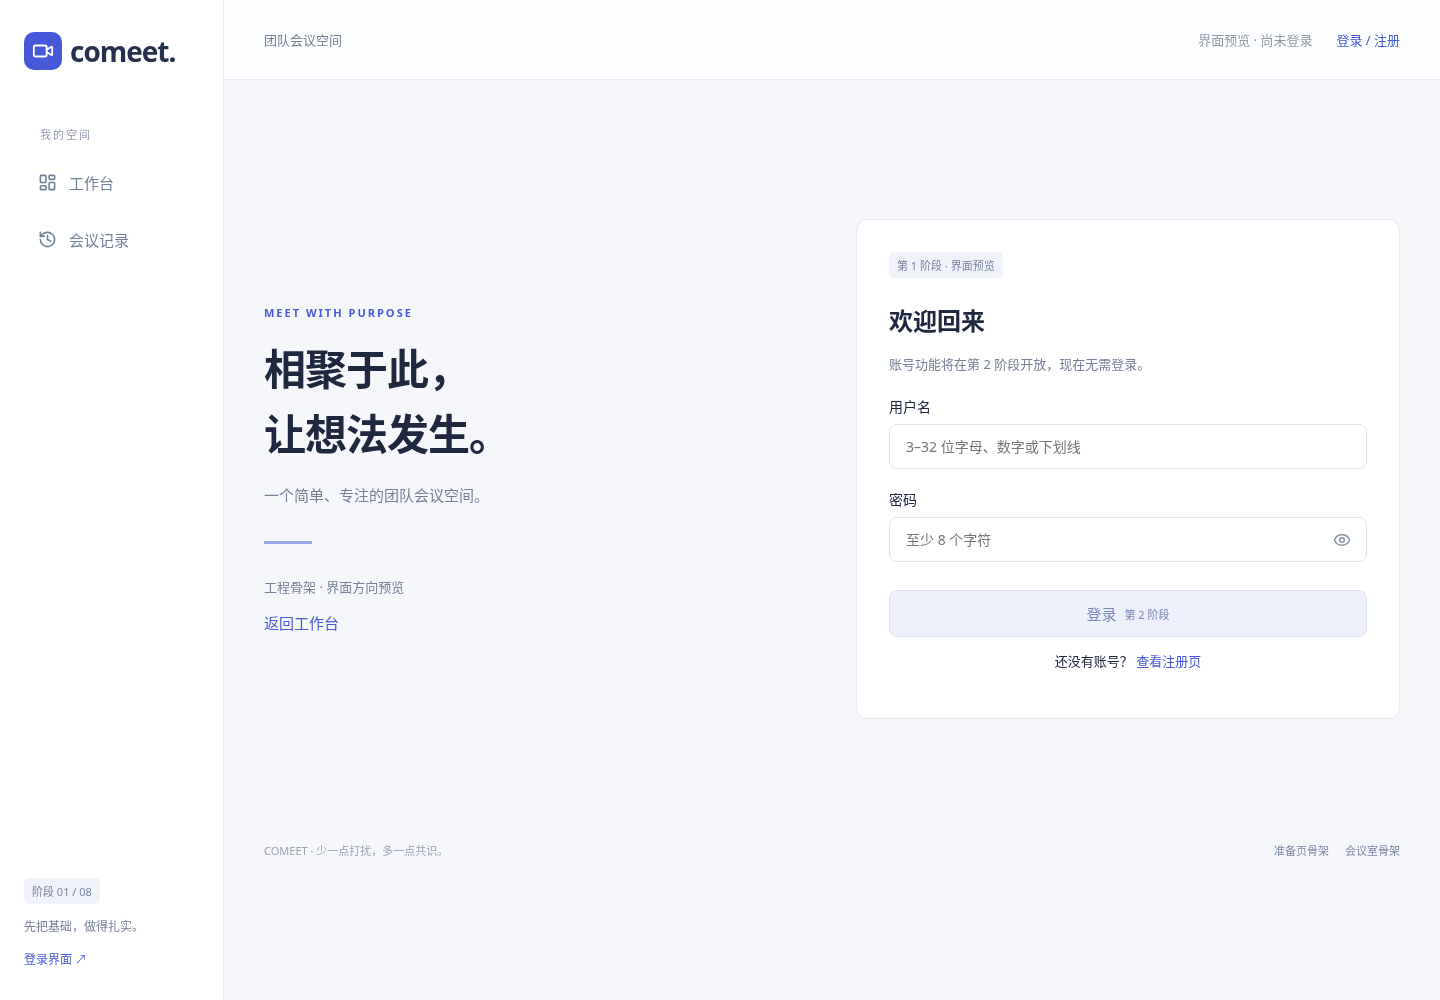
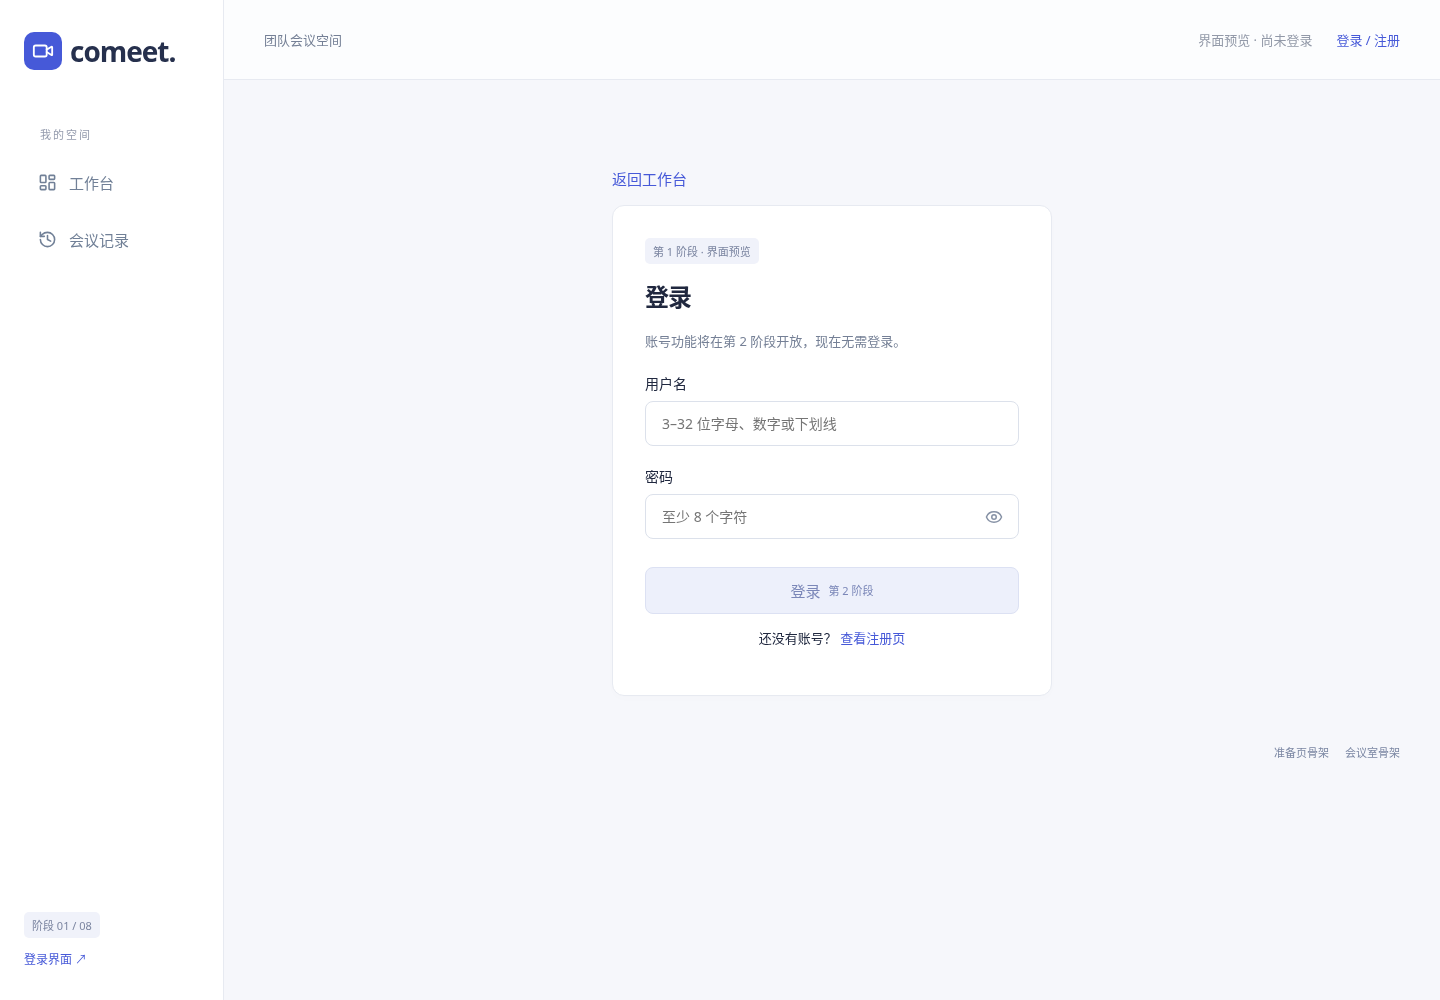
fix: 精简全站文案并记录最终交付清理要求

diff --git a/week03/homework/comeet/web/src/app/style.css b/week03/homework/comeet/web/src/app/style.css
@@ -132,6 +132,10 @@ nav a.active {
   font-weight: 600;
 }
 .sidebar-bottom {
+  display: flex;
+  flex-direction: column;
+  align-items: flex-start;
+  gap: 12px;
   margin-top: auto;
   padding-top: 64px;
   font-size: 12px;
@@ -164,12 +168,6 @@ main {
   margin: auto;
   padding: 48px 40px 24px;
 }
-.eyebrow {
-  font-size: 11px;
-  color: var(--primary);
-  font-weight: 700;
-  letter-spacing: 2px;
-}
 .subtitle {
   color: var(--muted);
   margin-bottom: 32px;
@@ -188,13 +186,12 @@ main {
   box-shadow: 0 3px 8px #26345503;
 }
 .action-card {
-  padding: 32px;
+  padding: 24px;
+  display: flex;
+  flex-direction: column;
 }
 .action-card h2 {
   margin-top: 24px;
-}
-.action-card p {
-  color: var(--muted);
 }
 .action-icon {
   display: flex;
@@ -227,7 +224,7 @@ main {
   width: 100%;
 }
 .action-card:first-child .button {
-  margin-top: 64px;
+  margin-top: auto;
 }
 .section-title {
   display: flex;
@@ -310,7 +307,7 @@ main {
 }
 .page-footer {
   display: flex;
-  justify-content: space-between;
+  justify-content: flex-end;
   gap: 16px;
   color: #9aa1b1;
   font-size: 11px;
@@ -325,32 +322,19 @@ main {
   color: #7b87a3;
 }
 .auth-layout {
-  display: grid;
-  grid-template-columns: 1fr 1fr;
-  gap: 48px;
-  align-items: center;
-  min-height: 65vh;
-}
-.auth-intro h1 {
-  font-size: 42px;
-  line-height: 1.55;
-}
-.auth-intro p {
-  color: var(--muted);
-}
-hr {
-  width: 48px;
-  height: 3px;
-  border: 0;
-  background: #9ca8e8;
-  margin: 32px 0;
+  display: flex;
+  flex-direction: column;
+  gap: 16px;
+  width: 100%;
+  max-width: 440px;
+  margin: 24px auto;
 }
 .auth-card {
   padding: 32px;
 }
-.auth-card h2 {
+.auth-card h1 {
   font-size: 24px;
-  margin-top: 24px;
+  margin: 16px 0;
 }
 .auth-card .button {
   width: 100%;
@@ -513,7 +497,7 @@ hr {
     padding-top: 64px;
   }
   .actions {
-    margin-top: 40px;
+    margin-top: 24px;
   }
 }
 @media (max-width: 1024px) {
@@ -526,12 +510,6 @@ hr {
   }
   .topbar {
     padding: 0 24px;
-  }
-  .auth-layout {
-    gap: 24px;
-  }
-  .auth-intro h1 {
-    font-size: 32px;
   }
   .room-body {
     grid-template-columns: 1fr 260px;
@@ -588,12 +566,6 @@ hr {
   .health-grid strong {
     display: inline;
     margin-left: 16px;
-  }
-  .auth-layout {
-    grid-template-columns: 1fr;
-  }
-  .auth-intro {
-    display: none;
   }
   .auth-card {
     max-width: 480px;

diff --git a/week03/homework/comeet/web/src/pages/Auth.tsx b/week03/homework/comeet/web/src/pages/Auth.tsx
@@ -6,21 +6,10 @@ export default function Auth({ register = false }: { register?: boolean }) {
   const [show, setShow] = useState(false);
   return (
     <div className="auth-layout">
-      <section className="auth-intro">
-        <div className="eyebrow">MEET WITH PURPOSE</div>
-        <h1>
-          相聚于此，
-          <br />
-          让想法发生。
-        </h1>
-        <p>一个简单、专注的团队会议空间。</p>
-        <hr />
-        <p className="muted">工程骨架 · 界面方向预览</p>
-        <Link to="/">返回工作台</Link>
-      </section>
+      <Link to="/">返回工作台</Link>
       <section className="card auth-card">
         <span className="tag">第 1 阶段 · 界面预览</span>
-        <h2>{register ? "创建 Comeet 账号" : "欢迎回来"}</h2>
+        <h1>{register ? "注册" : "登录"}</h1>
         <p className="muted">账号功能将在第 2 阶段开放，现在无需登录。</p>
         <form onSubmit={(e) => e.preventDefault()}>
           <label>

diff --git a/week03/homework/comeet/web/src/app/App.tsx b/week03/homework/comeet/web/src/app/App.tsx
@@ -34,7 +34,6 @@ export default function App() {
         </nav>
         <div className="sidebar-bottom">
           <span className="tag">阶段 01 / 08</span>
-          <p>先把基础，做得扎实。</p>
           <Link to="/login">登录界面 ↗</Link>
         </div>
       </aside>
@@ -65,7 +64,6 @@ export default function App() {
             />
           </Routes>
           <footer className="page-footer">
-            COMEET · 少一点打扰，多一点共识。
             <div className="preview-links">
               <Link to="/meetings/preview/prepare">准备页骨架</Link>
               <Link to="/meetings/preview/room">会议室骨架</Link>

diff --git a/week03/homework/comeet/web/index.html b/week03/homework/comeet/web/index.html
@@ -1,1 +1,1 @@
-<!doctype html><html lang="zh-CN"><head><meta charset="UTF-8"/><meta name="viewport" content="width=device-width, initial-scale=1.0"/><meta name="theme-color" content="#4255d4"/><title>Comeet · 让沟通更专注</title></head><body><div id="root"></div><script type="module" src="/src/main.tsx"></script></body></html>
+<!doctype html><html lang="zh-CN"><head><meta charset="UTF-8"/><meta name="viewport" content="width=device-width, initial-scale=1.0"/><meta name="theme-color" content="#4255d4"/><title>Comeet</title></head><body><div id="root"></div><script type="module" src="/src/main.tsx"></script></body></html>

diff --git a/week03/homework/comeet/web/src/pages/Dashboard.tsx b/week03/homework/comeet/web/src/pages/Dashboard.tsx
@@ -11,7 +11,6 @@ export default function Dashboard() {
             <Plus />
           </div>
           <h2>发起即时会议</h2>
-          <p>邀请伙伴，一起讨论下一步。</p>
           <Disabled>创建会议</Disabled>
         </section>
         <section className="card action-card">
@@ -19,7 +18,6 @@ export default function Dashboard() {
             <LogIn />
           </div>
           <h2>通过会议号加入</h2>
-          <p>与团队快速会合。</p>
           <label className="sr-only" htmlFor="meeting-no">
             会议号
           </label>

diff --git a/week03/homework/comeet/web/src/pages/HistoryPage.tsx b/week03/homework/comeet/web/src/pages/HistoryPage.tsx
@@ -2,9 +2,7 @@ import { Empty } from "../components/Common";
 export default function HistoryPage({ detail = false }: { detail?: boolean }) {
   return (
     <>
-      <div className="eyebrow">MEETING ARCHIVE</div>
       <h1>{detail ? "会议记录详情" : "历史会议"}</h1>
-      <p className="subtitle">让每一次讨论，都有迹可循。</p>
       <section className="card">
         <Empty title="历史记录将在第 6 阶段开放">
           当前未查询历史数据，也没有演示记录。

diff --git a/week03/homework/comeet/tests/e2e/stage1.spec.ts b/week03/homework/comeet/tests/e2e/stage1.spec.ts
@@ -1,9 +1,9 @@
 import { test, expect } from "../../web/node_modules/@playwright/test";
 const routes = [
   ["/", "发起即时会议"],
-  ["/login", "欢迎回来"],
-  ["/register", "创建 Comeet 账号"],
-  ["/meetings/preview/prepare", "入会前，准备一下。"],
+  ["/login", "登录"],
+  ["/register", "注册"],
+  ["/meetings/preview/prepare", "入会准备"],
   ["/meetings/preview/room", "等待连接会议"],
   ["/history", "历史会议"],
   ["/history/preview", "会议记录详情"],

diff --git a/week03/homework/comeet/web/src/pages/Room.tsx b/week03/homework/comeet/web/src/pages/Room.tsx
@@ -19,9 +19,8 @@ export default function Room() {
       <div className="room-body">
         <div className="room-stage">
           <Monitor size={48} />
-          <h2>为下一次讨论，留好位置。</h2>
+          <h2>尚未连接会议</h2>
           <p>第 3 阶段接通成员与聊天，第 4 阶段接入真实音视频。</p>
-          <span>无演示成员、无模拟聊天</span>
         </div>
         <aside className="room-panel">
           <div className="tabs">

diff --git a/week03/homework/comeet/web/src/pages/Prepare.tsx b/week03/homework/comeet/web/src/pages/Prepare.tsx
@@ -8,7 +8,7 @@ export default function Prepare() {
         <ArrowLeft size={16} />
         返回工作台
       </Link>
-      <h1>入会前，准备一下。</h1>
+      <h1>入会准备</h1>
       <p className="subtitle">准备页骨架 · 当前未查询或加入任何真实会议。</p>
       <div className="prepare-grid">
         <div className="preview">

diff --git a/week03/homework/comeet/docs/阶段验收.md b/week03/homework/comeet/docs/阶段验收.md
@@ -82,3 +82,9 @@ Pages 产物本地静态服务器验证：7 路由 × 4 宽度（1440/1024/768/3
 用户要求实际运行时去掉“留一点空间，给好好沟通。”和“从一场专注的会议开始，让想法更进一步。”。已删除工作台宣传标题、副标题及英文眉题，仅保留功能性标题“工作台”，同时应用于本机运行和 Pages 静态预览。用户尚未确认第一阶段验收通过，继续停在本阶段。
 
 本次修改复测：默认前端类型检查/构建通过；四个宽度的首页加载/刷新、真实 health 与错误恢复共 6 项通过；桌面和手机截图已更新，并检查两句标语均不存在。
+
+## 用户反馈：全站精简文案（2026-11-10）
+
+移除历史页宣传副标题、全站页脚标语、登录/注册页宣传区与英文眉题、侧栏标语、工作台卡片标语、会议室宣传标题和浏览器标题标语；登录/注册改为居中单列表单，准备页与会议室使用功能标题，减少空白。当前必要的功能未开放提示仍保留。全部阶段结束后清理界面阶段提示的要求已写入 DEVELOPMENT 与 docs/交付检查.md；最终交付学校仓库只保留 comeet 文件夹。用户尚未批准第一阶段验收通过。
+
+本次文案/布局复测：默认类型检查与构建通过；31 项真实浏览器检查通过，涵盖 7 路由、4 宽度、刷新、密码显示、禁用控制、真实 health 和失败重试。另逐页检查并更新截图，确认列举的宣传标语不再出现在 UI，浏览器标题为 Comeet。最终补调侧栏和页脚间距后再次核对 7 个界面及默认构建。

diff --git a/week03/homework/comeet/docs/交付检查.md b/week03/homework/comeet/docs/交付检查.md
@@ -1,0 +1,9 @@
+# 最终交付必须执行的检查（当前未完成）
+
+以下为用户追加要求，当前仍处于第 1 阶段，不能据此提前开展后续业务。
+
+- [ ] 所有阶段完成后，清除用户界面中的“第 N 阶段”“阶段 01 / 08”“后续阶段开放”“骨架”“界面预览”等开发进度提示与临时预览导航；已实现功能显示正常产品状态，未做功能隐藏或明确不可用，不留下假按钮。
+- [ ] 保留真实错误、加载、空态、设备权限、服务配置不足和 AI 来源说明，不能为删进度提示而隐藏运行问题。验收文档里的阶段历史继续保留。
+- [ ] 不再添加宣传标语、装饰性英文眉题；页面以功能标题、操作及必要说明为主。
+- [ ] 最终交付学校仓库时只放 comeet 文件夹（内含 web/server/docs/README/DEVELOPMENT/方案），不附带 week03/homework 或 comeet-stage1-review 外壳；目标学校仓库和放置位置由用户最终指定，不改动其他作业。
+- [ ] 不提交 node_modules、运行数据库、真实 .env、密钥和临时输出。学校仓库 push 仍需按用户实际授权范围执行。

diff --git a/week03/homework/comeet/DEVELOPMENT.md b/week03/homework/comeet/DEVELOPMENT.md
@@ -23,3 +23,7 @@ Go 的 config 测试验证系统优先、显式文件和错误参数；store 测
 ## 后续阶段（均未授权开发）
 
 2：账号及会议 REST；3：业务 WS 与文字会议；4：设备和 LiveKit；5：共享/一次静音/移出/结束；6：历史、笔记及稳定性；7：DeepSeek；8：最终回归。后续记录应维护 docs/阶段验收.md，并区分自动、真实服务、用户实机结果。
+
+## 用户补充的界面与最终交付约束
+
+全站删除装饰性宣传标语，使用直接的功能标题和必要状态说明。当前阶段保留必要的未开放提示，全部阶段完成后必须清理用户界面的阶段编号、骨架/预览文字、临时导航，保留真实功能错误和配置说明。最终只将 comeet 文件夹交付到学校仓库的指定位置。详见 docs/交付检查.md，最终回归须逐项验证。
